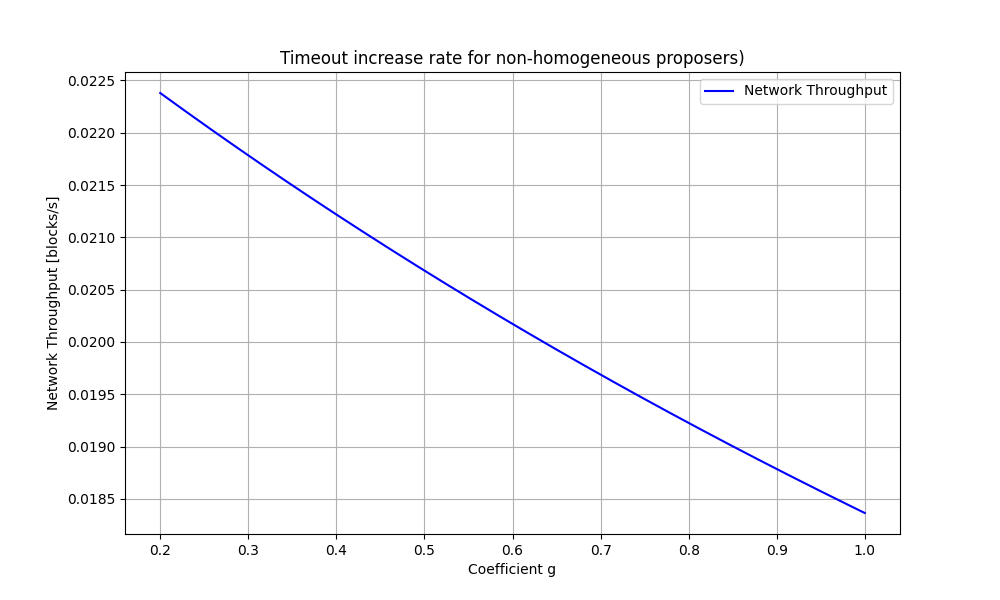
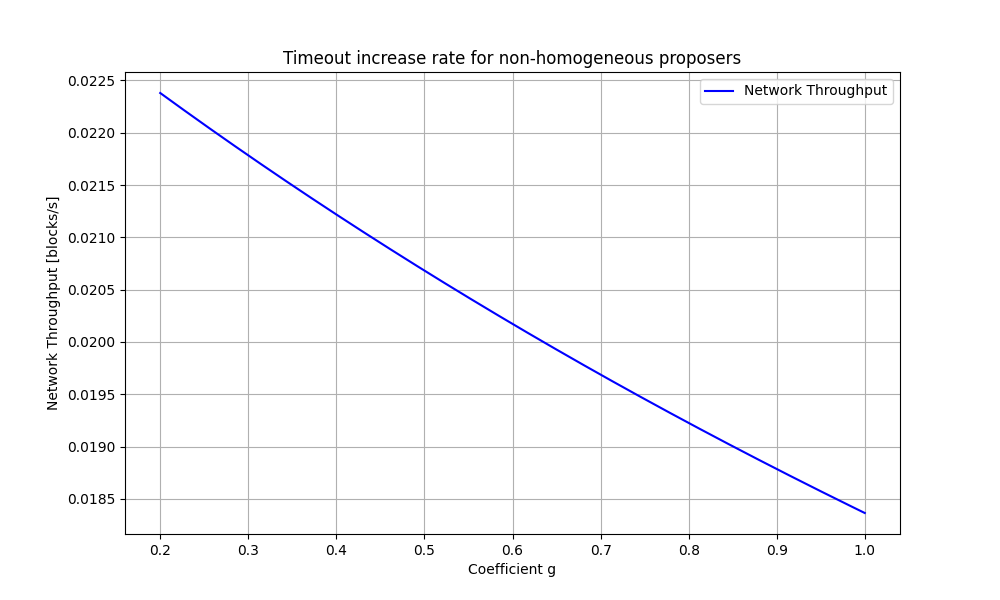
Fix typo

Changed region(s): [[0.279, 0.09, 0.744, 0.12]]

diff --git a/plots/plots.py b/plots/plots.py
@@ -34,7 +34,7 @@ k_fine_pv, p_fine_pv = interpolate(k_values_pv, pv_values)
 # Plot and save for "Throughput: pv"
 plt.figure(figsize=(10, 6))
 plt.plot(k_fine_pv, p_fine_pv, '-', label="Network Throughput", color="blue")
-plt.title("Timeout increase rate for non-homogeneous proposers)")
+plt.title("Timeout increase rate for non-homogeneous proposers")
 plt.xlabel("Coefficient g")
 plt.ylabel("Network Throughput [blocks/s]")
 plt.legend()
